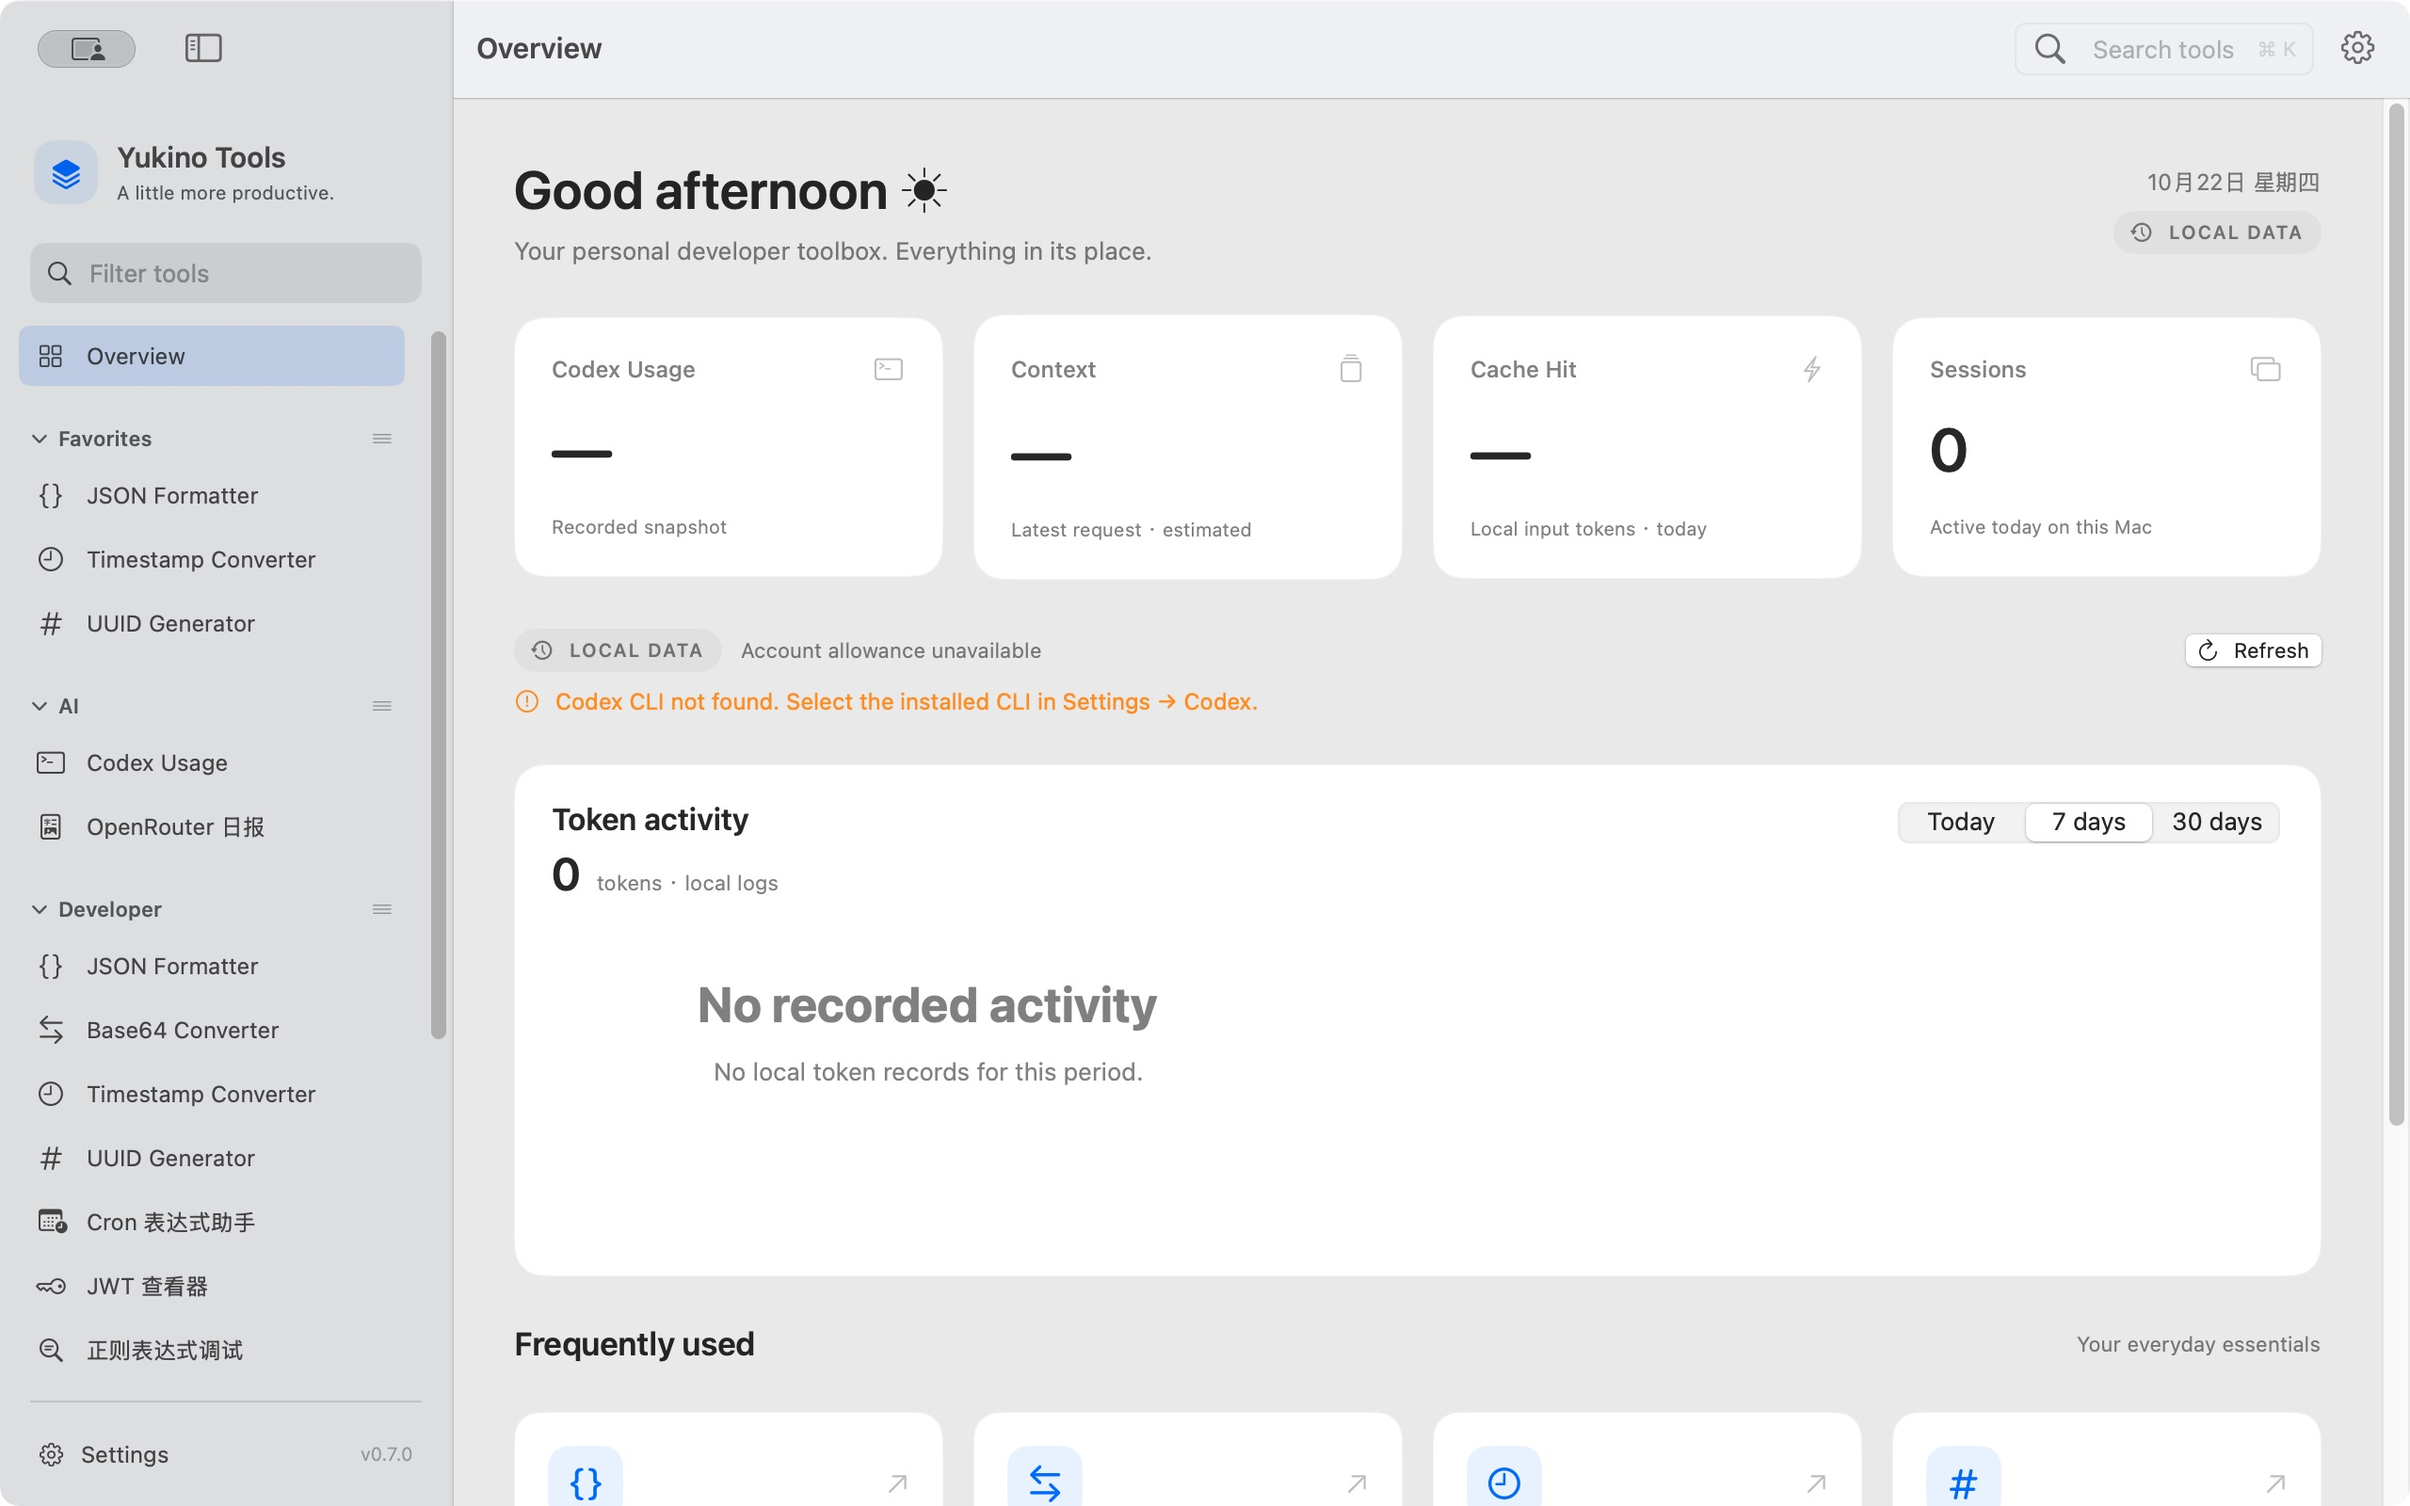
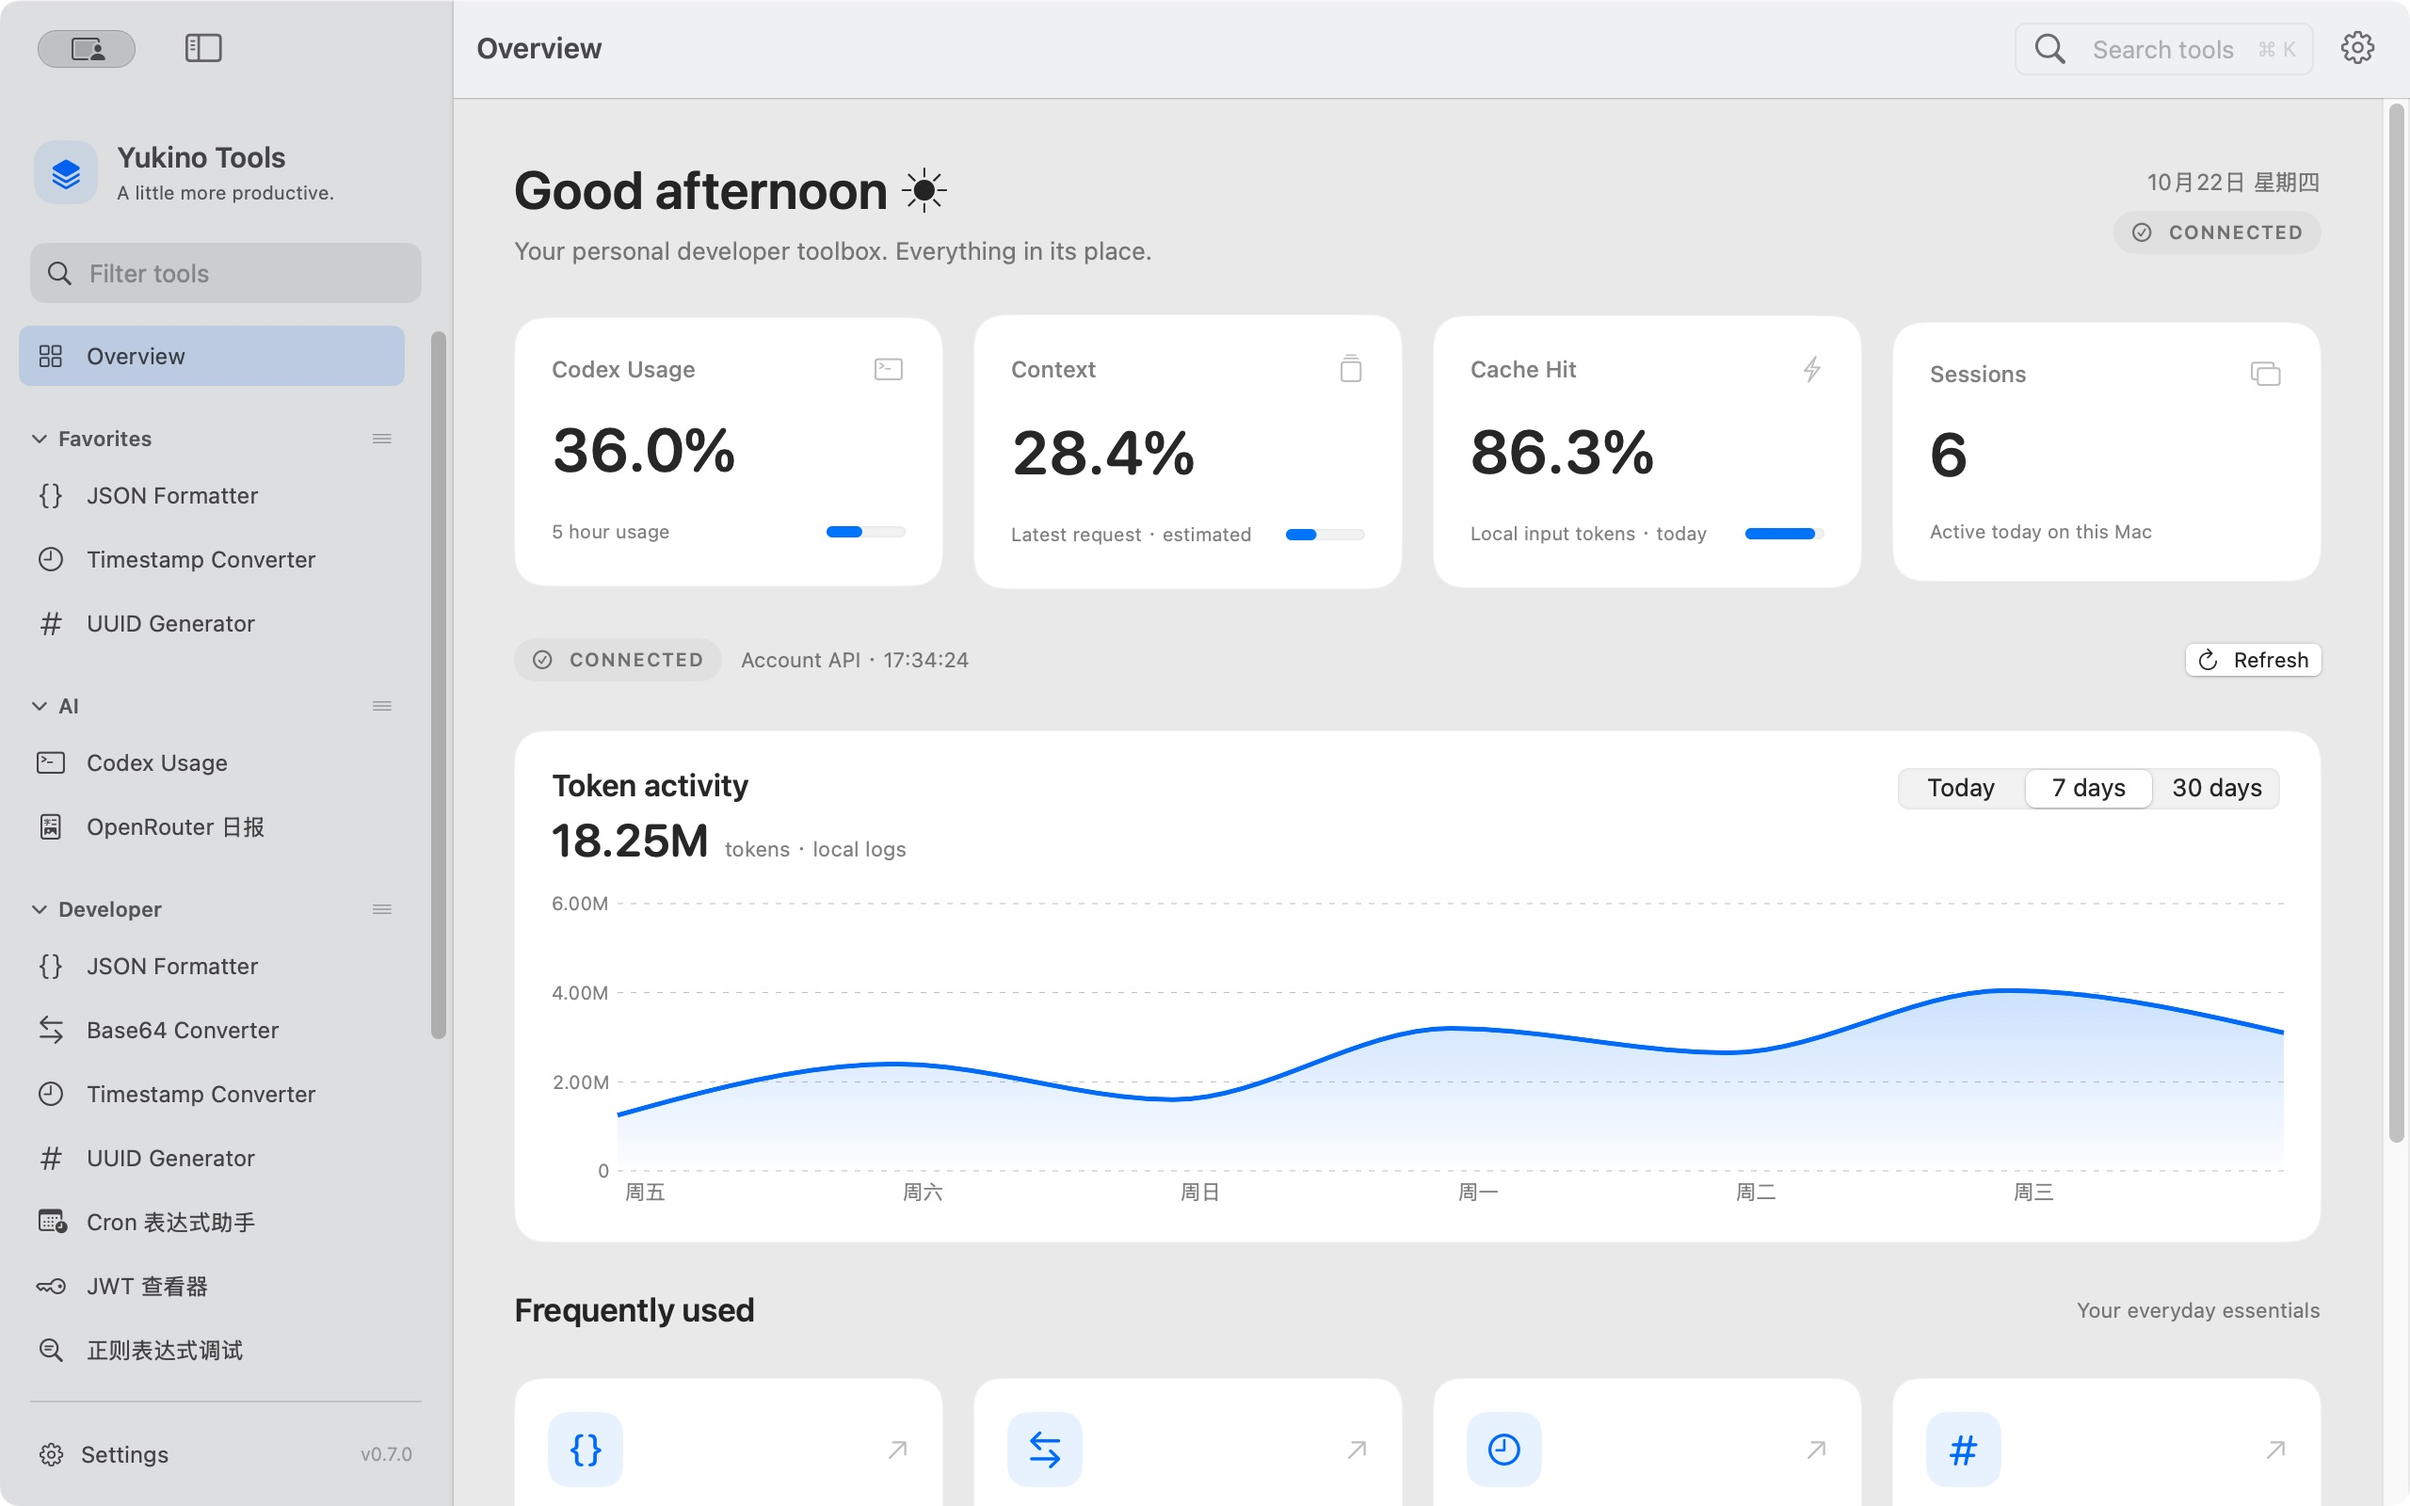
docs: show populated Overview with sample data

diff --git a/README.md b/README.md
@@ -14,6 +14,8 @@
 
 ![Yukino Tools：Overview 首页与用量概览](docs/images/overview.jpg)
 
+*Overview 界面预览，图中用量与活动为示例数据。*
+
 ## 下载安装
 
 当前版本：**[v0.7.0](https://github.com/Yukino-7/Yukino-Tools/releases/tag/v0.7.0)**。要求 **macOS 14+**，安装包适用于 **Apple Silicon（M 系列芯片）**。
